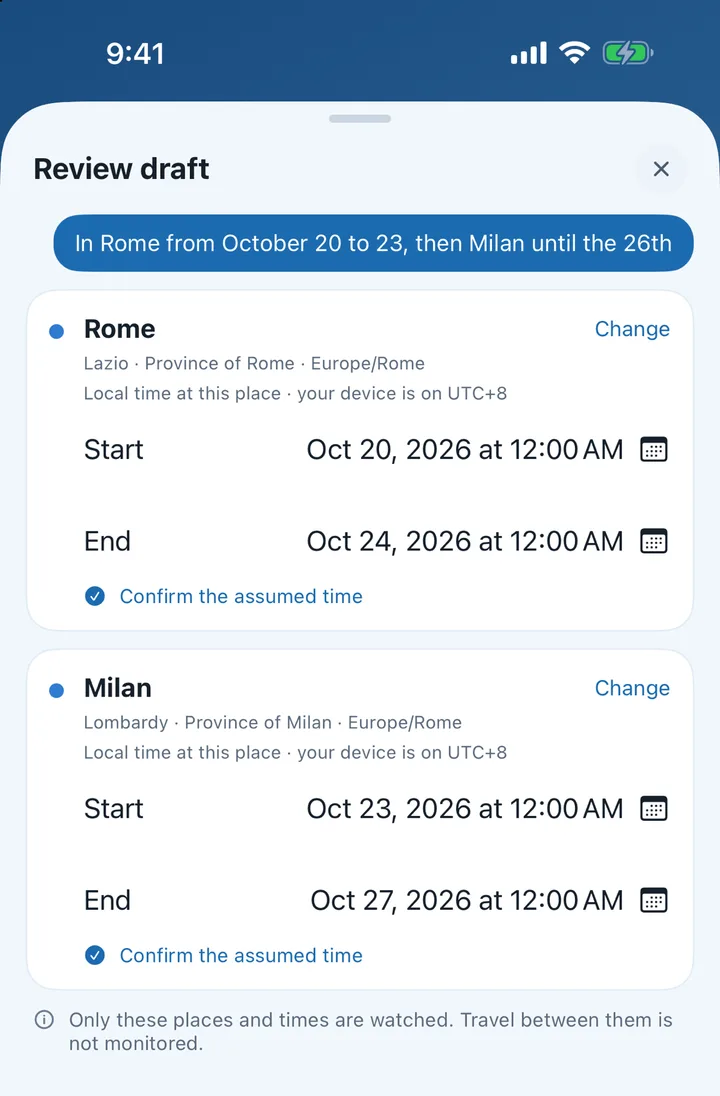
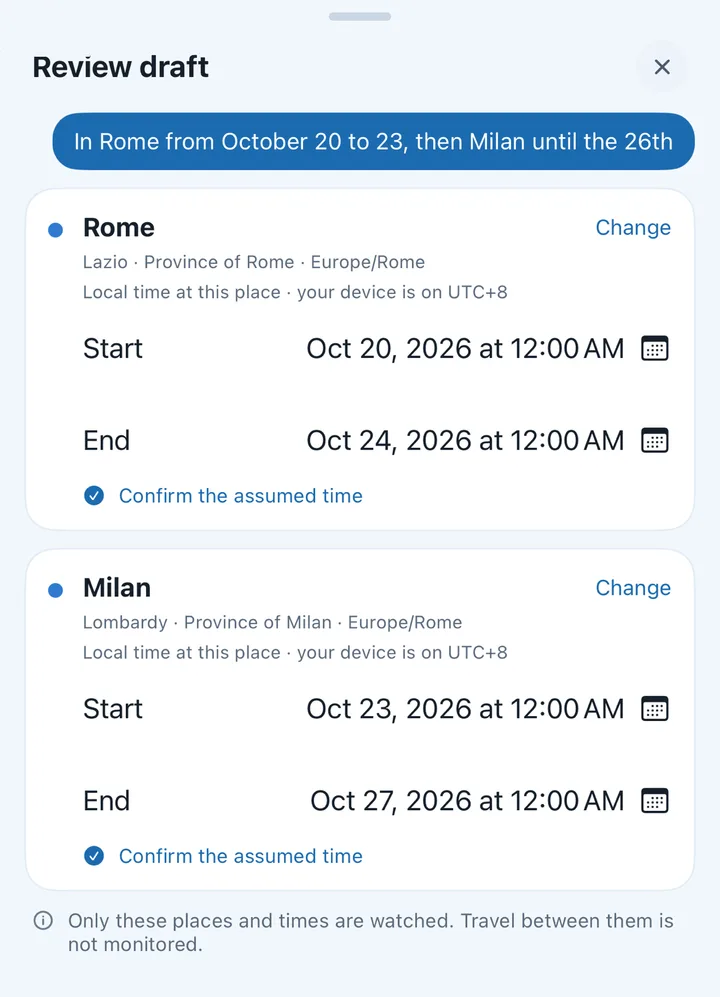
feat: crop the status bar and caption the hero screenshot
The screenshot now starts at the sheet's top edge, with the dark
wedges outside its rounded corners painted in the sheet colour. The
"AI-generated trip" tag and the route note return as a caption under
the image, so the Chinese page says both in Chinese.

diff --git a/src/styles/global.css b/src/styles/global.css
@@ -157,8 +157,10 @@ h3{font-weight:650;letter-spacing:-.025em}
 .hero-secondary{border-color:rgba(255,255,255,.5);color:#fff}
 .hero-secondary:hover{border-color:#fff;background:rgba(255,255,255,.1)}
 .hero-figure{display:flex;justify-content:center}
-.hero-shot{margin:0;width:min(100%,360px);overflow:hidden;border:1px solid rgba(255,255,255,.7);border-radius:40px;background:#F2F7FC;box-shadow:0 30px 70px rgba(19,58,96,.28)}
+.hero-shot{margin:0;width:min(100%,360px);overflow:hidden;border:1px solid rgba(255,255,255,.7);border-radius:28px;background:#F2F7FC;box-shadow:0 30px 70px rgba(19,58,96,.28)}
 .hero-shot img{display:block;width:100%;height:auto}
+.hero-shot figcaption{border-top:1px solid var(--hairline);padding:14px 22px 18px;color:#3D4D5E;font-size:13px;line-height:1.5}
+.shot-tag{display:block;margin-bottom:4px;color:var(--lamp-ink);font-weight:700}
 .hero-boundary{position:relative;z-index:1;border-color:rgba(255,255,255,.25);color:#DCECF7}
 .hero-boundary .mono{color:#DCECF7}
 .home-how,.home-plans,.home-alert,.home-principles,.home-feedback{padding-block:clamp(72px,8vw,108px)}
@@ -203,6 +205,6 @@ button.submit:hover{background:#15578F}
 .download-qr{border-radius:9px;box-shadow:0 16px 40px rgba(8,29,56,.25)}
 @keyframes sky-breathe{50%{opacity:.48;transform:scale(1.04)}}
 @media(max-width:1000px){.hero-grid{grid-template-columns:1fr}.hero-figure{max-width:580px;justify-content:flex-start}.hero-shot{width:min(100%,340px)}}
-@media(max-width:640px){.header-inner{min-height:64px}.brand-mark{width:28px;height:28px}.hero-grid{padding-block:60px 48px}.home-hero{background:linear-gradient(155deg,#1F5E9E 0%,#3E82C0 70%,#80B3D9 100%)}.hero-figure{max-width:none;justify-content:center}.hero-shot{width:min(88%,340px);border-radius:36px}.step-grid{gap:12px}.step-grid li{padding:24px}.step-index{margin-bottom:18px}.example-levels{padding:16px;gap:10px}.example-facts>div+div{border-color:#E3ECF5}}
+@media(max-width:640px){.header-inner{min-height:64px}.brand-mark{width:28px;height:28px}.hero-grid{padding-block:60px 48px}.home-hero{background:linear-gradient(155deg,#1F5E9E 0%,#3E82C0 70%,#80B3D9 100%)}.hero-figure{max-width:none;justify-content:center}.hero-shot{width:min(88%,340px);border-radius:26px}.step-grid{gap:12px}.step-grid li{padding:24px}.step-index{margin-bottom:18px}.example-levels{padding:16px;gap:10px}.example-facts>div+div{border-color:#E3ECF5}}
 @media(max-width:360px){.brand-mark{width:26px;height:26px}}
 @media(prefers-reduced-motion:reduce){.home-hero:before{animation:none}}

diff --git a/tests/unit/content.test.ts b/tests/unit/content.test.ts
@@ -16,9 +16,11 @@ describe("双语内容", () => {
       expect("product" in c).toBe(false);
     }
     for (const c of [CONTENT.zh, CONTENT.en]) {
-      expect(Object.keys(c.preview)).toEqual(["alt"]);
+      expect(Object.keys(c.preview)).toEqual(["alt", "tag", "routeNote"]);
       expect(c.preview.alt).toMatch(/Rome|罗马/);
     }
+    expect(CONTENT.zh.preview.routeNote).toBe("关注确认的地点和时间段，掌握全部行程。");
+    expect(CONTENT.en.preview.routeNote).toBe("Follow confirmed places and time periods across your entire trip.");
     expect(JSON.stringify(CONTENT)).not.toMatch(/Critical Alerts|预测地震|保证安全|不会漏报/i);
   });
 
@@ -31,6 +33,8 @@ describe("双语内容", () => {
     expect(CONTENT.zh.hero.titleLines.join("")).toBe("关注重要地点和行程，掌握相关预警。");
     expect(CONTENT.zh.hero.body).toContain("支持长期关注与按时间安排的行程提醒。");
     expect(CONTENT.zh.hero.boundary).toBe("Orbis提供更全面、更及时的预警，不替代官方紧急服务。");
+    expect(CONTENT.zh.preview.tag).toBe("AI 生成行程");
+    expect(CONTENT.en.preview.tag).toBe("AI-GENERATED TRIP");
     expect(CONTENT.zh.how.title).toBe("智能生成提醒， 让你更安心");
     expect(CONTENT.zh.how.intro).toBe("大模型驱动流程创建，提醒清晰明了");
     expect(CONTENT.zh.plans.title).toBe("两种安排，一种关注方式");

diff --git a/tests/unit/render.test.ts b/tests/unit/render.test.ts
@@ -24,12 +24,16 @@ describe("renderHome", () => {
   });
 
   it("首屏用确认草稿的真实截图，不再画行程卡片", () => {
-    for (const [html, alt] of [[zh, "罗马"], [en, "Rome"]] as const) {
+    for (const [html, alt, tag, note] of [
+      [zh, "罗马", "AI 生成行程", "关注确认的地点和时间段，掌握全部行程。"],
+      [en, "Rome", "AI-GENERATED TRIP", "Follow confirmed places and time periods across your entire trip."]
+    ] as const) {
       const figure = html.match(/<figure class="hero-shot">.*?<\/figure>/s)?.[0] ?? "";
       expect(figure).toContain('src="/assets/hero-review-draft.webp"');
-      expect(figure).toContain('width="720" height="1096"');
+      expect(figure).toContain('width="720" height="997"');
       expect(figure).toMatch(new RegExp(`alt="[^"]*${alt}[^"]*"`));
       expect(figure).not.toContain("loading=");
+      expect(figure).toContain(`<figcaption><span class="shot-tag mono">${tag}</span>${note}</figcaption>`);
       expect(html).not.toContain("plan-preview");
       expect(html).not.toContain("preview-stops");
     }

diff --git a/tests/e2e/site.spec.ts b/tests/e2e/site.spec.ts
@@ -45,6 +45,8 @@ test("首屏截图和预警示例展示更新文案", async ({ page }) => {
   await expect(shot).toBeVisible();
   await expect.poll(() => shot.evaluate((img: HTMLImageElement) => img.naturalWidth)).toBe(720);
   await expect(shot).toHaveAttribute("alt", /罗马/);
+  await expect(page.locator(".hero-shot .shot-tag")).toHaveText("AI 生成行程");
+  await expect(page.locator(".hero-shot figcaption")).toContainText("关注确认的地点和时间段，掌握全部行程。");
   await expect(page.locator(".example-card figcaption")).toContainText("仅为示例，以实际信息效果为准。");
   await expect(page.locator(".official-level")).toBeVisible();
   await expect(page.locator(".orbis-intensity")).toBeVisible();

diff --git a/src/content/zh.ts b/src/content/zh.ts
@@ -18,7 +18,9 @@ export const zh = {
     boundary: "Orbis提供更全面、更及时的预警，不替代官方紧急服务。"
   },
   preview: {
-    alt: "Orbis 确认行程草稿的界面（英文）：罗马 10 月 20 日至 23 日，随后米兰至 26 日，每一站都列出当地时间的开始与结束时间。"
+    alt: "Orbis 确认行程草稿的界面（英文）：罗马 10 月 20 日至 23 日，随后米兰至 26 日，每一站都列出当地时间的开始与结束时间。",
+    tag: "AI 生成行程",
+    routeNote: "关注确认的地点和时间段，掌握全部行程。"
   },
   how: {
     title: "智能生成提醒， 让你更安心",

diff --git a/src/content/en.ts b/src/content/en.ts
@@ -18,7 +18,9 @@ export const en = {
     boundary: "Orbis provides broader, more timely alerts without replacing official emergency services."
   },
   preview: {
-    alt: "Orbis screen for reviewing a trip draft: Rome from October 20 to 23, then Milan until the 26th, each with start and end times in local time."
+    alt: "Orbis screen for reviewing a trip draft: Rome from October 20 to 23, then Milan until the 26th, each with start and end times in local time.",
+    tag: "AI-GENERATED TRIP",
+    routeNote: "Follow confirmed places and time periods across your entire trip."
   },
   how: {
     title: "Intelligent alerts for greater peace of mind",

diff --git a/src/render/home.ts b/src/render/home.ts
@@ -6,7 +6,7 @@ import { renderFeedbackSection } from "./feedback";
 import { pageDocument } from "./layout";
 
 function renderPreview(c: WebsiteContent): string {
-  return `<figure class="hero-shot"><img src="/assets/hero-review-draft.webp" width="720" height="1096" alt="${esc(c.preview.alt)}" /></figure>`;
+  return `<figure class="hero-shot"><img src="/assets/hero-review-draft.webp" width="720" height="997" alt="${esc(c.preview.alt)}" /><figcaption><span class="shot-tag mono">${esc(c.preview.tag)}</span>${esc(c.preview.routeNote)}</figcaption></figure>`;
 }
 
 function renderExample(c: WebsiteContent): string {

diff --git a/tests/unit/version02.test.ts b/tests/unit/version02.test.ts
@@ -33,6 +33,8 @@ describe("0.2 website story", () => {
     }
     expect(zh).toContain('class="hero-shot"');
     expect(en).toContain('class="hero-shot"');
+    expect(zh).toContain("关注确认的地点和时间段，掌握全部行程。");
+    expect(en).toContain("Follow confirmed places and time periods across your entire trip.");
   });
 
   it("keeps the example disclaimer without an empty sample header", () => {

diff --git a/src/content/types.ts b/src/content/types.ts
@@ -58,6 +58,8 @@ export interface WebsiteContent {
   };
   preview: {
     alt: string;
+    tag: string;
+    routeNote: string;
   };
   how: {
     title: string;
